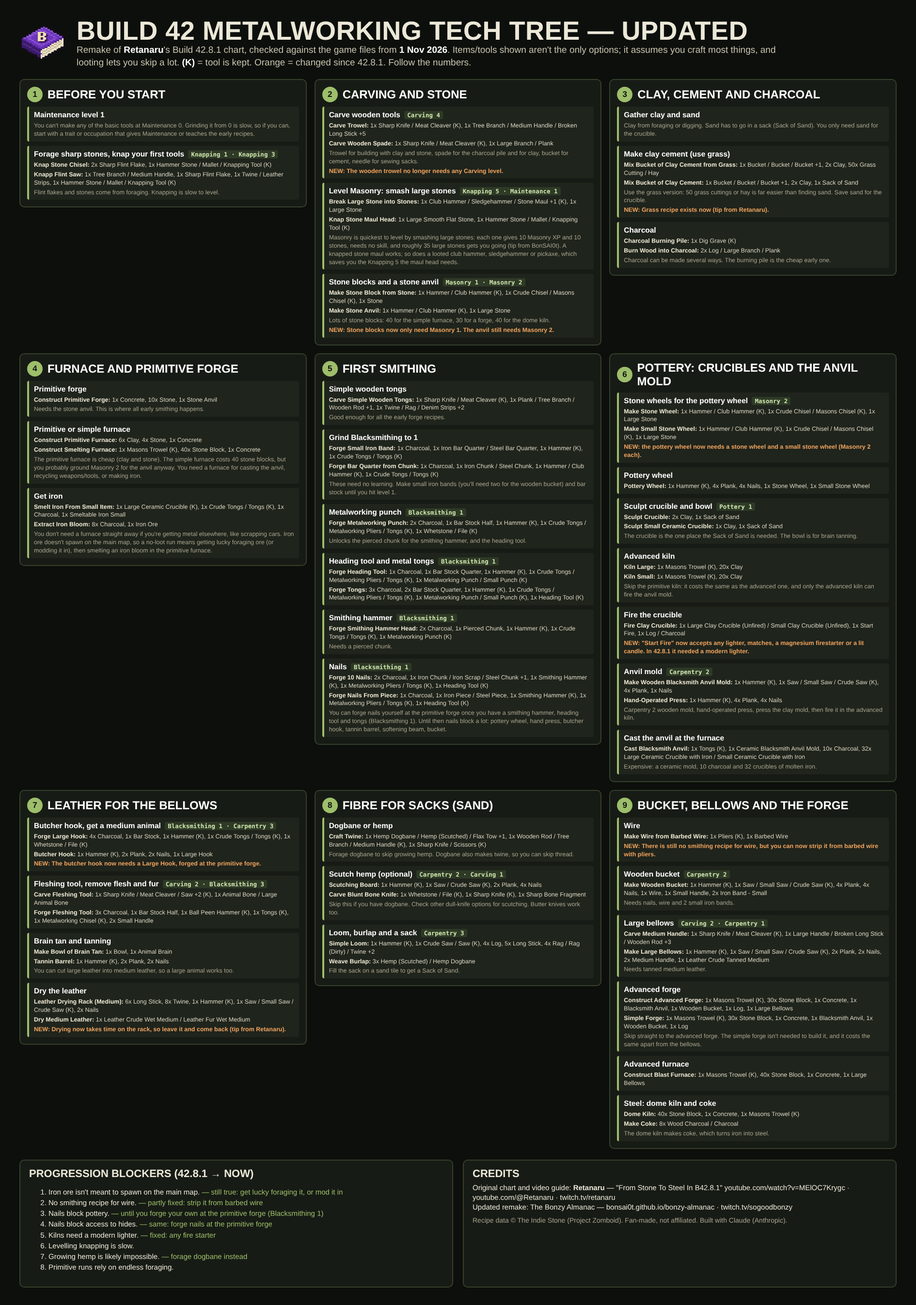
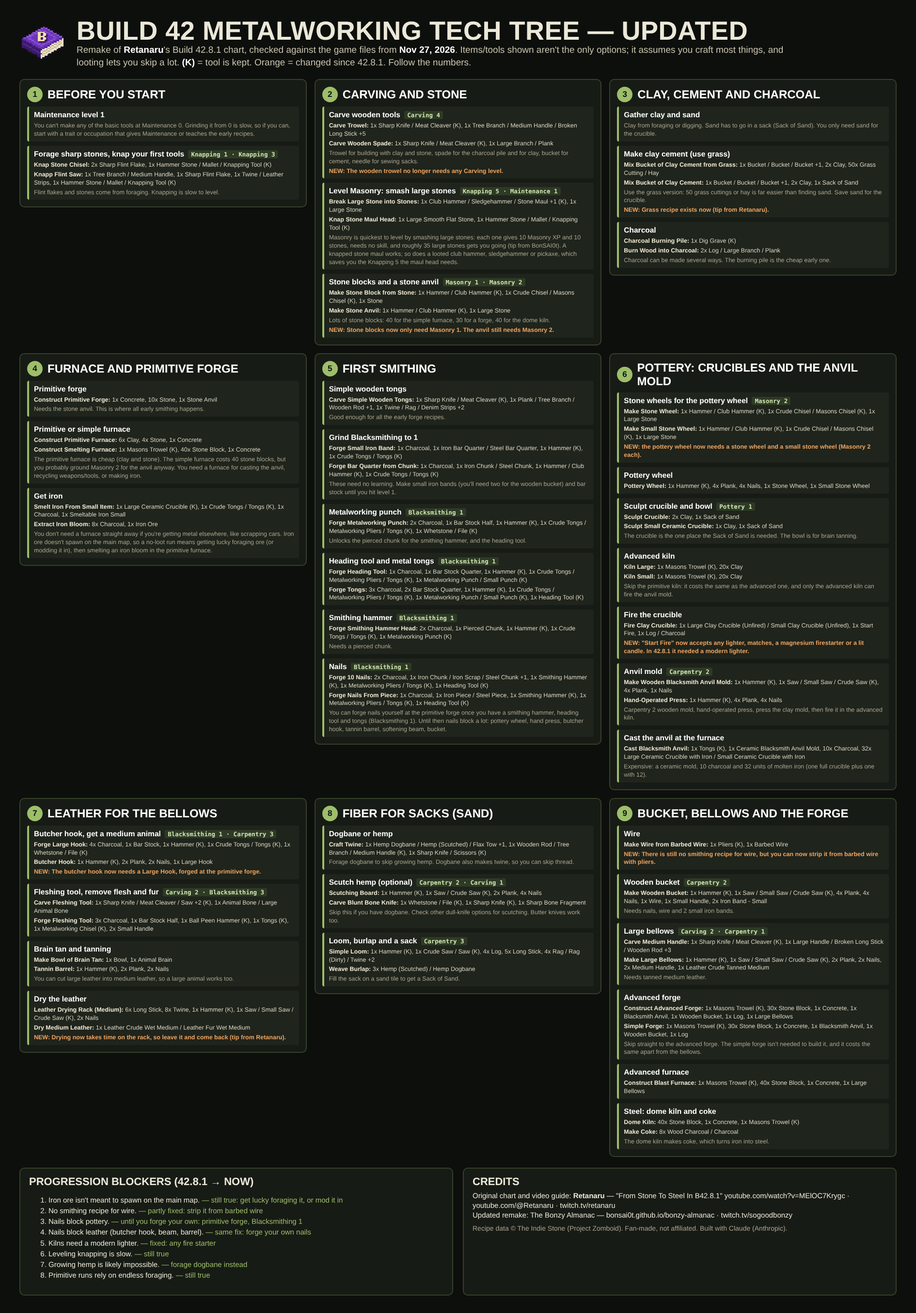
Wording pass, detail side panel, US spelling, Nov 27 data date

diff --git a/index.html b/index.html
@@ -160,7 +160,11 @@ a.home:hover img{transform:translateY(-2px) rotate(-3deg)}
 .credit .who b{font:700 1.15rem var(--display);text-transform:uppercase;letter-spacing:.02em}
 .credit a{color:var(--accent);font:13px var(--mono)}
 .credit ul{margin:2px 0 0;padding-left:18px;font-size:13.5px}
-.mhead{display:flex;flex-wrap:wrap;gap:10px;align-items:end;justify-content:space-between}
+.mhead{display:grid;grid-template-columns:minmax(0,1.6fr) minmax(0,1fr);gap:12px 20px;align-items:start}
+.mhead .note{margin:0}
+.mtools{display:grid;gap:8px}
+@media (max-width:820px){.mhead{grid-template-columns:minmax(0,1fr)}}
+.mtools details.blk ol{font-size:12.5px}
 .mstage{display:grid;gap:10px}
 .mstage h2{display:flex;align-items:center;gap:10px}
 .mnum{font:700 14px var(--mono);background:var(--accent);color:var(--accent-ink);border-radius:50%;width:26px;height:26px;display:inline-grid;place-items:center;flex:none}
@@ -234,7 +238,13 @@ a.home:hover img{transform:translateY(-2px) rotate(-3deg)}
 .tn.fade,.tn.dim{opacity:.35}
 @media (prefers-reduced-motion:reduce){.tn{transition:none}}
 @media (max-width:820px){.tree{grid-auto-flow:row;grid-auto-columns:auto;width:auto;padding-left:4px}#treesvg{display:none}.ghead{min-height:0}}
-#treedetail{scroll-margin-top:12px}
+#treedetail{position:fixed;top:0;right:0;bottom:0;width:min(520px,100vw);z-index:20;background:var(--bg);border-left:1px solid var(--line);box-shadow:-12px 0 32px rgba(0,0,0,.18);overflow:auto;padding:calc(env(safe-area-inset-top,0px) + 14px) 16px calc(env(safe-area-inset-bottom,0px) + 24px);transform:translateX(105%);transition:transform .2s ease;box-sizing:border-box}
+#treedetail.open{transform:none}
+#treedetail .mstep{margin-left:0}
+@media (prefers-reduced-motion:reduce){#treedetail{transition:none}}
+.scrollhint{margin:0;font-size:12.5px;color:var(--accent);font-weight:600}
+details.blk summary{cursor:pointer;color:var(--ink);font-size:13px}
+details.blk[open] summary{margin-bottom:4px}
 #treedetail a{color:var(--accent)}
 .foot{border-top:1px solid var(--line);padding-top:14px;font-size:12.5px;color:var(--muted);display:grid;gap:6px;max-width:80ch}
 .foot a{color:var(--accent)}
@@ -248,12 +258,12 @@ a.home:hover img{transform:translateY(-2px) rotate(-3deg)}
[1 lines of base64/hex data omitted]
     <div>
     <h1>The Bonzy Almanac</h1>
-    <p class="sub">Project Zomboid Build 42 recipes, read straight from the game's script files (export of 1 Nov 2026). Search what you can learn and how, or build a character and see everything they can make.</p>
+    <p class="sub">Project Zomboid Build 42 recipes, read from the game files as of Nov 27, 2026. Search recipes, plan a character, check growing seasons, and follow the metalworking path.</p>
     </div>
    </div>
    <div class="hdr-r">
    <a class="twitch" id="twitch" href="https://www.twitch.tv/sogoodbonzy" target="_blank" rel="noopener" title="Offline"><span class="dot" aria-hidden="true"></span>twitch.tv/sogoodbonzy<span class="live-lbl off" aria-hidden="true">LIVE</span></a>
-   <div class="theme" role="group" aria-label="Colour theme">
+   <div class="theme" role="group" aria-label="Color theme">
     <button type="button" data-mode="auto">Auto</button><button type="button" data-mode="light">Light</button><button type="button" data-mode="dark">Dark</button>
    </div>
    </div>
@@ -337,13 +347,15 @@ a.home:hover img{transform:translateY(-2px) rotate(-3deg)}
 
   <section id="page-metal" class="page" hidden>
     <div class="mhead">
-      <p class="note">The route from nothing to an advanced forge, based on <b>Retanaru</b>'s Build 42.8.1 Metalworking Tech Tree and his video guide <a href="https://www.youtube.com/watch?v=MElOC7Krygc" target="_blank" rel="noopener">From Stone To Steel In B42.8.1</a> (<a href="https://www.twitch.tv/retanaru" target="_blank" rel="noopener">twitch.tv/retanaru</a> · <a href="https://www.youtube.com/@Retanaru" target="_blank" rel="noopener">youtube.com/@Retanaru</a>). Recipes, skills and components below are read live from the current game files (1 Nov 2026), and anything that's changed since 42.8.1 is flagged. It assumes you craft most things; looting lets you skip a lot. Some recipes may have easier alternatives now.</p>
-      <label class="lbl" for="mq" style="min-width:240px">Filter steps<input id="mq" type="search" placeholder="nails, crucible, leather… (dims the rest)" autocomplete="off"></label>
+      <p class="note">Based on <b>Retanaru</b>'s Build 42.8.1 Metalworking Tech Tree and video <a href="https://www.youtube.com/watch?v=MElOC7Krygc" target="_blank" rel="noopener">From Stone To Steel In B42.8.1</a> (<a href="https://www.twitch.tv/retanaru" target="_blank" rel="noopener">twitch.tv/retanaru</a> · <a href="https://www.youtube.com/@Retanaru" target="_blank" rel="noopener">youtube.com/@Retanaru</a>), checked against the game files as of Nov 27, 2026. Changes since 42.8.1 are flagged. Each column is a <b>gate</b>: a milestone you need before the next one opens up; inside a gate, any order works. It assumes you craft most things, and looting skips a lot. <b>Click any box</b> for its recipes.</p>
+      <div class="mtools">
+        <label class="lbl" for="mq">Filter the tree<input id="mq" type="search" placeholder="nails, crucible, leather…" autocomplete="off"></label>
+        <details class="blk"><summary><b>Progression blockers</b> from 42.8.1</summary><ol id="blockers"></ol></details>
+      </div>
     </div>
-    <div class="blk"><b>Progression blockers</b> (from 42.8.1, with current status)<ol id="blockers"></ol></div>
-    <p class="note">Each column is a <b>gate</b>: a milestone you need before the next one opens up. Inside a gate the order is flexible. Click a box to see its recipes and light up what it needs and what it unlocks.</p>
+    <p class="scrollhint" id="scrollhint" hidden>Scroll sideways for more gates →</p>
     <div class="treewrap" id="treewrap"><svg id="treesvg" aria-hidden="true"></svg><div class="tree" id="tree"></div></div>
-    <div id="treedetail"></div>
+    <aside id="treedetail" aria-label="Details" aria-hidden="true"></aside>
   </section>
 
   <section id="page-credits" class="page" hidden>
@@ -352,7 +364,7 @@ a.home:hover img{transform:translateY(-2px) rotate(-3deg)}
   </section>
 
   <footer class="foot">
-    <p style="margin:0"><b>AI disclosure:</b> this page was built with Claude (Anthropic). Claude wrote the parser that pulls the recipe data out of the game's script and translation files and wrote the page code, working from BonSAI0t's prompts and corrections. The data comes straight from the game files, but the research rules and starting skill levels are inferred, so check in game before relying on them.</p>
+    <p style="margin:0"><b>AI disclosure:</b> this page was built with Claude (Anthropic). Claude wrote the parser that pulls the recipe data out of the game's script and translation files and wrote the page code, working from BonSAI0t's prompts and corrections. The data comes straight from the game files. The research rules come from the game's own code, but code can be misread and things change between updates, and starting skill levels are our own calculation, so check in game before relying on them.</p>
     <p style="margin:0">Made by BonSAI0t. Catch the streams at <a href="https://www.twitch.tv/sogoodbonzy" target="_blank" rel="noopener">twitch.tv/sogoodbonzy</a>.</p>
     <p style="margin:0">Page code © 2026 BonSAI0t, <a href="https://opensource.org/license/mit" rel="noopener">MIT License</a>. Recipe data, names and the Inventive trait icon come from Project Zomboid game files, © The Indie Stone, and are not covered by that license. This is a fan project, not affiliated with or endorsed by The Indie Stone.</p>
   </footer>
@@ -542,7 +554,7 @@ $('#bload').addEventListener('click',()=>{
   const rest=prof?parts.slice(1):parts;const ok=[],skip=[];
   rest.forEach(p=>{const id=p.toLowerCase();if(TRAIT[id]&&!TRAIT[id].prof)ok.push(id);else skip.push(p)});
   if(prof)$('#prof').value=prof;chosen=new Set(ok);$('#bname').value=name;
-  $('#bmsg').textContent=`Loaded ${ok.length} traits${prof?'':' (occupation not recognised, kept current one)'}${skip.length?`. Skipped ${skip.length} not in the base game (mods?): ${skip.join(', ')}`:''}.`;
+  $('#bmsg').textContent=`Loaded ${ok.length} traits${prof?'':' (occupation not recognized, kept current one)'}${skip.length?`. Skipped ${skip.length} not in the base game (mods?): ${skip.join(', ')}`:''}.`;
   renderBuild()});;
 $('#reset').addEventListener('click',()=>{chosen.clear();renderBuild()});
 
@@ -647,6 +659,7 @@ const PAGES=['recipes','build','seasons','metal','credits'];
 function route(){
   const cur=PAGES.includes(location.hash.slice(1))?location.hash.slice(1):'recipes';
   PAGES.forEach(p=>{$('#page-'+p).hidden=p!==cur;const tb=$('#tab-'+p);if(p===cur)tb.setAttribute('aria-current','page');else tb.removeAttribute('aria-current')});
+  if(cur!=='metal'&&typeof SEL!=='undefined'&&SEL){SEL=null;$('#treedetail').classList.remove('open')}
   if(cur==='build')renderBuild();else if(cur==='credits')renderCredits();else if(cur==='metal')renderMetal();else if(cur==='seasons')renderSeasons();else renderRecipes()}
 /* ---------- home: clicking the book resets everything ---------- */
 function resetAll(){
@@ -702,7 +715,7 @@ const METAL=[
   {t:'Advanced kiln',ids:['Kiln_Large','Kiln_Small'],note:"Skip the primitive kiln: it costs the same as the advanced one, and only the advanced kiln can fire the anvil mold."},
   {t:'Fire the crucible',ids:['FireCeramicCrucible'],chg:'"Start Fire" now accepts any lighter, matches, a magnesium firestarter or a lit candle. In 42.8.1 it needed a modern lighter.'},
   {t:'Anvil mold',ids:['MakeWoodenBlacksmithAnvilMold','Hand_Press','PressBlacksmithAnvilMold','Fire_ClayBlacksmithAnvilMold'],note:'Carpentry 2 wooden mold, hand-operated press, press the clay mold, then fire it in the advanced kiln.'},
-  {t:'Cast the anvil at the furnace',ids:['CastBlacksmithAnvil'],note:'Expensive: a ceramic mold, 10 charcoal and 32 crucibles of molten iron.'},
+  {t:'Cast the anvil at the furnace',ids:['CastBlacksmithAnvil'],note:'Expensive: a ceramic mold, 10 charcoal and 32 units of molten iron (one full crucible plus one with 12).'},
  ]},
  {stage:'Leather for the bellows',steps:[
   {t:'Butcher hook, get a medium animal',ids:['Forge_Large_Hook','ButcherHook'],chg:'The butcher hook now needs a Large Hook, forged at the primitive forge.'},
@@ -710,7 +723,7 @@ const METAL=[
   {t:'Brain tan and tanning',ids:['CreateBrainTan','TanninBarrel','TanLeather'],note:'You can cut large leather into medium leather, so a large animal works too.'},
   {t:'Dry the leather',ids:['DryingRackMedium','DryMediumLeather'],chg:'Drying now takes time on the rack, so leave it and come back (tip from Retanaru).'},
  ]},
- {stage:'Fibre for sacks (sand)',steps:[
+ {stage:'Fiber for sacks (sand)',steps:[
   {t:'Dogbane or hemp',ids:['CraftTwine'],note:'Forage dogbane to skip growing hemp. Dogbane also makes twine, so you can skip thread.'},
   {t:'Scutch hemp (optional)',ids:['ScutchingBoard','MakeDullBoneKnife','ScutchFibre'],note:'Skip this if you have dogbane. Check other dull-knife options for scutching. Butter knives work too.'},
   {t:'Loom, burlap and a sack',ids:['SimpleLoom','WeaveBurlap','SewSack'],note:'Fill the sack on a sand tile to get a Sack of Sand.'},
@@ -727,12 +740,12 @@ const METAL=[
 const BLOCKERS=[
   ['Iron ore isn\'t meant to spawn on the main map.','still true: get lucky foraging it, or mod it in'],
   ['No smithing recipe for wire.','partly fixed: strip it from barbed wire'],
-  ['Nails block pottery.','until you forge your own at the primitive forge (Blacksmithing 1)'],
-  ['Nails block access to hides.','same: forge nails at the primitive forge'],
+  ['Nails block pottery.','until you forge your own: primitive forge, Blacksmithing 1'],
+  ['Nails block leather (butcher hook, beam, barrel).','same fix: forge your own nails'],
   ['Kilns need a modern lighter.','fixed: any fire starter'],
-  ['Levelling knapping is slow.',''],
+  ['Leveling knapping is slow.','still true'],
   ['Growing hemp is likely impossible.','forage dogbane instead'],
-  ['Primitive runs rely on endless foraging.',''],
+  ['Primitive runs rely on endless foraging.','still true'],
 ];
 function learnInfo(r){
   if(!r.learn)return '<span class="pill ok">No learning needed</span>';
@@ -748,28 +761,28 @@ function learnInfo(r){
 const GATES=[
  {t:'Basic tools',goal:'Get Maintenance 1 and make primitive tools.',block:'Maintenance 0 can\'t make any basic tool.'},
  {t:'Primitive forge running',goal:'Stone anvil, clay cement, charcoal and some iron at a primitive forge.',block:'Iron. Ore doesn\'t spawn on the main map: loot metal, or get lucky foraging ore.'},
- {t:'Nails',goal:'Forge your own smithing tools, then nails. Everything after this needs nails.',block:'Blacksmithing 1 and learning the forge recipes (magazine, research, or auto-learn at 3). Looted nails skip this gate.'},
+ {t:'Nails',goal:'Forge your own smithing tools, then nails. Most of what comes after this needs nails.',block:'Blacksmithing 1 and learning the forge recipes (magazine, research, or auto-learn at 3). Looted nails skip this gate.'},
  {t:'Pottery and kiln',goal:'Pottery wheel, crucibles and an advanced kiln.',block:'Nails (wheel), Masonry 2 (stone wheels), a Sack of Sand (crucible).'},
- {t:'Furnace, anvil and leather',goal:'Cast a real anvil and tan leather. Two branches you can do in either order.',block:'32 crucibles of molten iron for the anvil. A medium animal and nails for leather.'},
+ {t:'Furnace, anvil and leather',goal:'Cast a blacksmith anvil and tan leather. Two branches you can do in either order.',block:'32 units of molten iron for the anvil (a crucible holds 20: one full, one with 12). A medium animal and nails for leather.'},
  {t:'Advanced forge and steel',goal:'Bucket, bellows and anvil come together. Dome kiln for steel.',block:'Wire (strip barbed wire), tanned medium leather for the bellows.'},
 ];
 const NODES=[
  // gate 1
  {id:'maint',g:0,t:'Maintenance 1',ids:[],note:"You can't make any of the basic tools at Maintenance 0. Grinding it from 0 is slow, so start with a trait or occupation that gives Maintenance or teaches the early recipes if you can."},
  {id:'knap',g:0,t:'Knapped tools',deps:['maint'],ids:['MakeStoneChisel','MakeStoneBladeSaw'],note:'Forage sharp stones and flint. Knapping is slow to level.'},
- {id:'carve',g:0,t:'Carved tools',deps:['maint'],ids:['CarveTrowel','CarveWoodenSpade','CarveBucket','MakeBoneSewingNeedle'],note:'Trowel for building, spade for the charcoal pile, bucket for cement, needle for sacks.',chg:'The wooden trowel no longer needs any Carving.'},
+ {id:'carve',g:0,t:'Carved tools',skt:'Carving 0–4',deps:['maint'],ids:['CarveTrowel','CarveWoodenSpade','CarveBucket','MakeBoneSewingNeedle'],note:'Trowel for building, spade for the charcoal pile, bucket for cement, needle for sacks.',chg:'The wooden trowel no longer needs any Carving.'},
  {id:'tongs0',g:0,t:'Simple wooden tongs',deps:['maint'],ids:['MakeCrudeWoodenTongs'],note:'Good enough for every early forge recipe.'},
- {id:'masonry',g:0,t:'Level Masonry',sk:[],ids:['Make_Stones_from_Large_Stone','MakeStoneMaulHead','MakeStoneMaul'],note:'Smash large stones: 10 Masonry XP each, no skill needed, roughly 35 gets you going (tip from BonSAI0t).',loot:'A looted club hammer, sledgehammer or pickaxe skips the Knapping 5 maul head.'},
+ {id:'masonry',g:0,t:'Level Masonry',sk:[],nolearn:true,ids:['Make_Stones_from_Large_Stone','MakeStoneMaulHead','MakeStoneMaul'],note:'Smash large stones: 10 Masonry XP each, no skill needed, roughly 35 gets you going (tip from BonSAI0t).',loot:'A looted club hammer, sledgehammer or pickaxe skips the Knapping 5 maul head.'},
  {id:'blocks',g:0,t:'Stone blocks',deps:['masonry','knap'],ids:['Make_Stone_Block_from_Stone'],note:'You need lots: 40 for the simple furnace, 30 for a forge, 40 for the dome kiln.',chg:'Only needs Masonry 1 now.'},
  // gate 2
- {id:'cement',g:1,t:'Clay cement (use grass)',deps:['carve'],ids:['MakeBucketOfClayCementFromGrass','MakeBucketOfClayCement'],note:'Use the grass version: 50 grass cuttings or hay. Save sand for crucibles.',chg:'Grass recipe exists now (tip from Retanaru).'},
+ {id:'cement',g:1,t:'Clay cement',deps:['carve'],ids:['MakeBucketOfClayCementFromGrass','MakeBucketOfClayCement'],note:'Use the grass version: 50 grass cuttings or hay. Save sand for crucibles.',chg:'Grass recipe exists now (tip from Retanaru).'},
  {id:'charcoal',g:1,t:'Charcoal',deps:['carve'],ids:['Charcoal_Pit','MakeWoodCharcoal'],note:'Everything at the forge burns charcoal. The burning pile is the cheap early way.'},
  {id:'anvil0',g:1,t:'Stone anvil',deps:['masonry'],ids:['Make_Stone_Anvil'],note:'Masonry 2.'},
  {id:'pforge',g:1,t:'Primitive forge',deps:['cement','anvil0'],ids:['Forge_Primitive_Forge'],note:'Where all early smithing happens.'},
  {id:'pfurnace',g:1,t:'Primitive furnace',deps:['cement'],ids:['Primitive_Furnace'],note:'Cheap (clay and stone). Smelts iron blooms, and smelts scrap once you have a crucible.'},
  {id:'iron',g:1,t:'First iron',deps:['pfurnace','pforge','charcoal'],ids:['ExtractIronBloom','ExtractIronFromBloom'],note:"Bloom from iron ore in the primitive furnace, then hammer it into chunks at the forge.",loot:'Looted iron chunks, bar stock or scrap metal (cars) skip this.'},
  // gate 3
- {id:'bs1',g:2,t:'Grind Blacksmithing 1',deps:['iron','tongs0','charcoal','pforge'],ids:['ForgeSmallIronBand','Forge_Bar_Quarter_From_Chunk','Forge_Bar_Half','Pierce_Chunk'],note:"No learning needed. Make small iron bands (you'll want two for the wooden bucket) and bar stock until you hit 1."},
+ {id:'bs1',g:2,t:'Grind Blacksmithing 1',skt:'Blacksmithing 0',deps:['iron','tongs0','charcoal','pforge'],ids:['ForgeSmallIronBand','Forge_Bar_Quarter_From_Chunk','Forge_Bar_Half','Pierce_Chunk'],note:"No learning needed. Make small iron bands (you'll want two for the wooden bucket) and bar stock until you hit 1."},
  {id:'punch',g:2,t:'Metalworking punch',deps:['bs1'],ids:['Forge_Metalworking_Punch']},
  {id:'heading',g:2,t:'Heading tool',deps:['punch'],ids:['Forge_Heading_Tool']},
  {id:'mtongs',g:2,t:'Metal tongs',deps:['punch','heading'],ids:['Forge_Tongs']},
@@ -779,18 +792,18 @@ const NODES=[
  // gate 4
  {id:'wheels',g:3,t:'Stone wheels',deps:['masonry','knap'],ids:['Make_Stone_Wheel','Make_Small_Stone_Wheel'],chg:'New: the pottery wheel needs a stone wheel and a small stone wheel.'},
  {id:'pwheel',g:3,t:'Pottery wheel',deps:['wheels','nails'],ids:['Pottery_Wheel']},
- {id:'fibre',g:3,t:'Fibre and twine',ids:['CraftTwine','ScutchingBoard','MakeDullBoneKnife','ScutchFibre'],note:'Forage dogbane to skip growing hemp; it makes twine directly. Scutching is only for hemp/flax.'},
- {id:'sack',g:3,t:'Sack of Sand',deps:['fibre','carve'],ids:['SimpleLoom','WeaveBurlap','SewSack'],note:'Weave burlap, sew a sack, fill it on a sand tile. Only the crucible needs sand.',loot:'Any looted sack works.'},
+ {id:'fiber',g:3,t:'Fiber and twine',sk:[],ids:['CraftTwine','ScutchingBoard','MakeDullBoneKnife','ScutchFibre'],note:'Forage dogbane to skip growing hemp; it makes twine directly. Scutching is only for hemp/flax.'},
+ {id:'sack',g:3,t:'Sack of Sand',deps:['fiber','carve'],ids:['SimpleLoom','WeaveBurlap','SewSack'],note:'Weave burlap, sew a sack, fill it on a sand tile. Only the crucible needs sand.',loot:'Any looted sack works.'},
  {id:'kiln',g:3,t:'Advanced kiln',deps:['carve'],ids:['Kiln_Large','Kiln_Small'],note:'Skip the primitive kiln: same cost, and only the advanced one fires the anvil mold.'},
  {id:'crucible',g:3,t:'Crucibles',deps:['pwheel','sack','kiln'],ids:['MakeCeramicCrucible','MakeCeramicCrucibleSmall','FireCeramicCrucible'],chg:'Firing takes any fire starter now (matches, any lighter, firestarter, lit candle).'},
  {id:'bowl',g:3,t:'Clay bowl',deps:['pwheel','kiln'],ids:['MakeClayBowl','FireClayBowl'],note:'For brain tanning.',loot:'Any looted bowl works.'},
  // gate 5
  {id:'sfurnace',g:4,t:'Simple furnace',deps:['blocks','cement'],ids:['Smelting_Furnace'],note:'40 stone blocks. Needed to cast the anvil.'},
- {id:'smelt',g:4,t:'Iron at scale',deps:['crucible','pfurnace'],ids:['ExtractIronFromSmallItem','ExtractIronFromIronOre'],note:'Recycle scrap weapons and tools in a crucible. You need a lot of it for the anvil.'},
+ {id:'smelt',g:4,t:'Iron at scale',deps:['crucible','pfurnace','sfurnace'],ids:['ExtractIronFromSmallItem','ExtractIronFromIronOre'],note:'Recycle scrap weapons and tools in a crucible at the primitive furnace. Ore needs the simple furnace. The anvil takes a lot of iron.'},
  {id:'mold',g:4,t:'Anvil mold',deps:['nails','kiln'],ids:['MakeWoodenBlacksmithAnvilMold','Hand_Press','PressBlacksmithAnvilMold','Fire_ClayBlacksmithAnvilMold'],note:'Carpentry 2 wooden mold, hand press, press the clay mold, fire it in the advanced kiln.'},
- {id:'castanvil',g:4,t:'Cast the blacksmith anvil',deps:['mold','smelt','sfurnace','mtongs'],ids:['CastBlacksmithAnvil'],note:'A ceramic mold, 10 charcoal and 32 crucibles of molten iron.',loot:'A looted blacksmith anvil skips this branch.'},
+ {id:'castanvil',g:4,t:'Cast the blacksmith anvil',deps:['mold','smelt','sfurnace','mtongs'],ids:['CastBlacksmithAnvil'],note:'A ceramic mold, 10 charcoal and 32 units of molten iron (one full crucible plus one with 12).',loot:'A looted blacksmith anvil skips this branch.'},
  {id:'hook',g:4,t:'Butcher hook',deps:['largehook','nails'],ids:['ButcherHook'],chg:'Now needs a Large Hook, forged at the primitive forge.'},
- {id:'flesh',g:4,t:'Flesh and fur removal',deps:['nails','knap'],ids:['CarveFleshingTool','Forge_Fleshing_Tool','SofteningBeam']},
+ {id:'flesh',g:4,t:'Flesh and fur removal',skt:'Carving 2 or Blacksmithing 3',deps:['nails','knap'],ids:['CarveFleshingTool','Forge_Fleshing_Tool','SofteningBeam']},
  {id:'tan',g:4,t:'Tanning',deps:['hook','flesh','bowl','nails'],ids:['CreateBrainTan','TanninBarrel','TanLeather'],note:'Large leather can be cut into medium, so a large animal works too.'},
  {id:'dry',g:4,t:'Dry the leather',deps:['tan','nails'],ids:['DryingRackMedium','DryMediumLeather'],chg:'Drying now takes time on the rack (tip from Retanaru).'},
  // gate 6
@@ -798,7 +811,7 @@ const NODES=[
  {id:'wbucket',g:5,t:'Wooden bucket',deps:['nails','wire','bs1'],ids:['MakeWoodenBucket'],note:'Nails, wire and 2 small iron bands.'},
  {id:'bellows',g:5,t:'Large bellows',deps:['dry','nails'],ids:['CarveMediumHandle','MakeLargeBellows'],note:'Needs tanned medium leather.'},
  {id:'aforge',g:5,t:'Advanced forge',deps:['castanvil','wbucket','bellows','blocks','cement'],ids:['Advanced_Forge','Forge'],note:"Skip the simple forge: it isn't needed, and the advanced one only adds the bellows."},
- {id:'afurnace',g:5,t:'Advanced furnace',deps:['bellows','blocks','cement'],ids:['Blast_Furnace']},
+ {id:'afurnace',g:5,t:'Advanced furnace',deps:['bellows','blocks','cement'],ids:['Blast_Furnace'],note:'Needed for steel: casting steel bars and ingots and smelting steel items all happen here. Pair it with coke from the dome kiln.'},
  {id:'steel',g:5,t:'Steel (dome kiln + coke)',deps:['blocks','charcoal','cement'],ids:['Dome_Kiln','MakeCoke'],note:'Coke from the dome kiln turns iron into steel.'},
 ];
 const NBY=Object.fromEntries(NODES.map(n=>[n.id,n]));
@@ -811,12 +824,13 @@ function renderMetal(){
   const q=$('#mq').value.trim().toLowerCase();
   const match=n=>!q||(n.t+' '+(n.note||'')+' '+(n.chg||'')+' '+(n.loot||'')+' '+n.ids.map(i=>BYID[i]?BYID[i].hay:'').join(' ')).toLowerCase().includes(q);
   const anc=SEL?closure(SEL,'deps'):null,des=SEL?closure(SEL,'kids'):null;
-  $('#tree').innerHTML=GATES.map((g,gi)=>`<div class="gcol"><div class="ghead"><span class="mnum">${gi+1}</span><div><b>${esc(g.t)}</b><p>${esc(g.goal)}</p><p class="gblk"><b>Gate:</b> ${esc(g.block)}</p></div></div>${NODES.filter(n=>n.g===gi).map(n=>{
+  $('#tree').innerHTML=GATES.map((g,gi)=>`<div class="gcol"><div class="ghead"><span class="mnum">${gi+1}</span><div><b>${esc(g.t)}</b><p>${esc(g.goal)}</p><p class="gblk"><b>Blocker:</b> ${esc(g.block)}</p></div></div>${NODES.filter(n=>n.g===gi).map(n=>{
     const cls=['tn',match(n)?'':'dim',SEL===n.id?'sel':'',anc&&anc.has(n.id)?'anc':'',des&&des.has(n.id)?'des':'',SEL&&SEL!==n.id&&!anc.has(n.id)&&!des.has(n.id)?'fade':''].join(' ');
-    const sk=nodeSkills(n).map(([s,l])=>`<span class="sk">${esc(SKN(s))} ${l}</span>`).join(' ');
-    return `<button type="button" class="${cls}" data-node="${n.id}" id="tn-${n.id}"><span class="tt">${hl(n.t,q)}</span>${sk||n.ids.length?`<span class="tm">${sk||'<span class="sk met">No skill</span>'}${nodeLearn(n)?' <span class="pill">learn</span>':''}${n.loot?' <span class="pill ok">loot skip</span>':''}${n.chg?' <span class="pill no">changed</span>':''}</span>`:''}${n.deps.length?`<span class="tdeps">needs ${n.deps.map(d=>esc(NBY[d].t)).join(', ')}</span>`:''}</button>`}).join('')}</div>`).join('');
+    const sk=n.skt?`<span class="sk">${esc(n.skt)}</span>`:nodeSkills(n).map(([s,l])=>`<span class="sk">${esc(SKN(s))} ${l}</span>`).join(' ');
+    return `<button type="button" class="${cls}" data-node="${n.id}" id="tn-${n.id}"><span class="tt">${hl(n.t,q)}</span>${sk||n.ids.length?`<span class="tm">${sk||'<span class="sk met">No skill</span>'}${nodeLearn(n)&&!n.nolearn?' <span class="pill">must learn</span>':''}${n.loot?' <span class="pill ok">lootable</span>':''}${n.chg?' <span class="pill no">changed</span>':''}</span>`:''}${n.deps.length?`<span class="tdeps">needs ${n.deps.map(d=>esc(NBY[d].t)).join(', ')}</span>`:''}</button>`}).join('')}</div>`).join('');
   drawEdges(anc,des);
   renderDetail();
+  updScrollHint();
 }
 function drawEdges(anc,des){
   const wrap=$('#treewrap'),svg=$('#treesvg');if(!wrap||!svg)return;
@@ -835,14 +849,18 @@ function drawEdges(anc,des){
 }
 function renderDetail(){
   const el=$('#treedetail');
-  if(!SEL){el.innerHTML='<p class="note">Click any box to see its recipes, components, how to learn them, and research items. Its requirements and what it unlocks light up in the tree.</p>';return}
+  el.classList.toggle('open',!!SEL);el.setAttribute('aria-hidden',String(!SEL));
+  if(!SEL){el.innerHTML='';return}
   const n=NBY[SEL],q='';
   const rs=n.ids.map(i=>BYID[i]).filter(Boolean);
   el.innerHTML=`<div class="mstep"><h3>${esc(n.t)} <button type="button" class="btn" id="tdclose" style="float:right">Close</button></h3>${n.note?`<p class="mnote">${esc(n.note)}</p>`:''}${n.loot?`<p class="mnote"><b>Loot shortcut:</b> ${esc(n.loot)}</p>`:''}${n.chg?`<p class="mchg"><b>Changed since 42.8.1:</b> ${esc(n.chg)}</p>`:''}${n.deps.length?`<p class="mnote"><b>Needs:</b> ${n.deps.map(d=>`<a href="#metal" data-go="${d}">${esc(NBY[d].t)}</a>`).join(', ')}</p>`:''}${n.kids.length?`<p class="mnote"><b>Unlocks:</b> ${n.kids.map(d=>`<a href="#metal" data-go="${d}">${esc(NBY[d].t)}</a>`).join(', ')}</p>`:''}${rs.map(r=>`<div class="mrec"><div class="rowtop"><span class="name">${esc(r.name)}</span><span class="id">${esc(r.id)}</span>${r.skill.filter(x=>x[1]>0).map(x=>skChip(x)).join(' ')||'<span class="sk met">No skill needed</span>'}${r.station&&/Forge|Furnace|Kiln|Press|Wheel|Loom|Scutch|Tan|Dry|Weav|Charcoal/i.test(r.station)?`<span class="pill">at ${esc(r.station.split(';').filter(x=>!/InHandCraft|AnySurfaceCraft|CanBeDoneFromFloor|Outdoors/.test(x)).join(' / ').replace(/([a-z])([A-Z])/g,'$1 $2'))}</span>`:''}</div><div>${learnInfo(r)}</div>${(r.learn||r.rtag)&&r.rtag!=='Cannot'&&(r.rItems.length||r.rOut.length)?`<div class="mres"><span class="mlbl">Research from</span> ${namesList([...new Set(r.rItems.concat(r.rOut))],q,INAME,8)}</div>`:''}${compBlock(r)}</div>`).join('')}</div>`;
 }
-$('#tree')&&$('#tree').addEventListener('click',e=>{const b=e.target.closest('[data-node]');if(!b)return;SEL=SEL===b.dataset.node?null:b.dataset.node;renderMetal();if(SEL&&window.matchMedia('(max-width:820px)').matches)$('#treedetail').scrollIntoView({behavior:'smooth',block:'start'})});
+$('#tree')&&$('#tree').addEventListener('click',e=>{const b=e.target.closest('[data-node]');if(!b)return;SEL=SEL===b.dataset.node?null:b.dataset.node;renderMetal();if(SEL){$('#treedetail').scrollTop=0;$('#tdclose')&&$('#tdclose').focus({preventScroll:true})}});
+document.addEventListener('keydown',e=>{if(e.key==='Escape'&&SEL){const id=SEL;SEL=null;renderMetal();const b=$('#tn-'+id);b&&b.focus()}});
+function updScrollHint(){const w=$('#treewrap'),h=$('#scrollhint');if(w&&h)h.hidden=!(w.scrollWidth>w.clientWidth+4)||window.matchMedia('(max-width:820px)').matches}
+$('#treewrap')&&$('#treewrap').addEventListener('scroll',()=>{const w=$('#treewrap');if(w.scrollLeft+w.clientWidth>=w.scrollWidth-4)$('#scrollhint').hidden=true});
 $('#treedetail').addEventListener('click',e=>{if(e.target.id==='tdclose'){SEL=null;renderMetal();return}const g=e.target.dataset&&e.target.dataset.go;if(g){e.preventDefault();SEL=g;renderMetal();$('#tn-'+g).scrollIntoView({behavior:'smooth',block:'nearest',inline:'center'})}});
-window.addEventListener('resize',()=>{if(!$('#page-metal').hidden)drawEdges(SEL?closure(SEL,'deps'):null,SEL?closure(SEL,'kids'):null)});
+window.addEventListener('resize',()=>{if(!$('#page-metal').hidden){drawEdges(SEL?closure(SEL,'deps'):null,SEL?closure(SEL,'kids'):null);updScrollHint()}});
 
 $('#mq').addEventListener('input',renderMetal);
 $('#blockers').innerHTML=BLOCKERS.map(([a,b])=>`<li>${esc(a)}${b?` <span class="st">(${esc(b)})</span>`:''}</li>`).join('');
